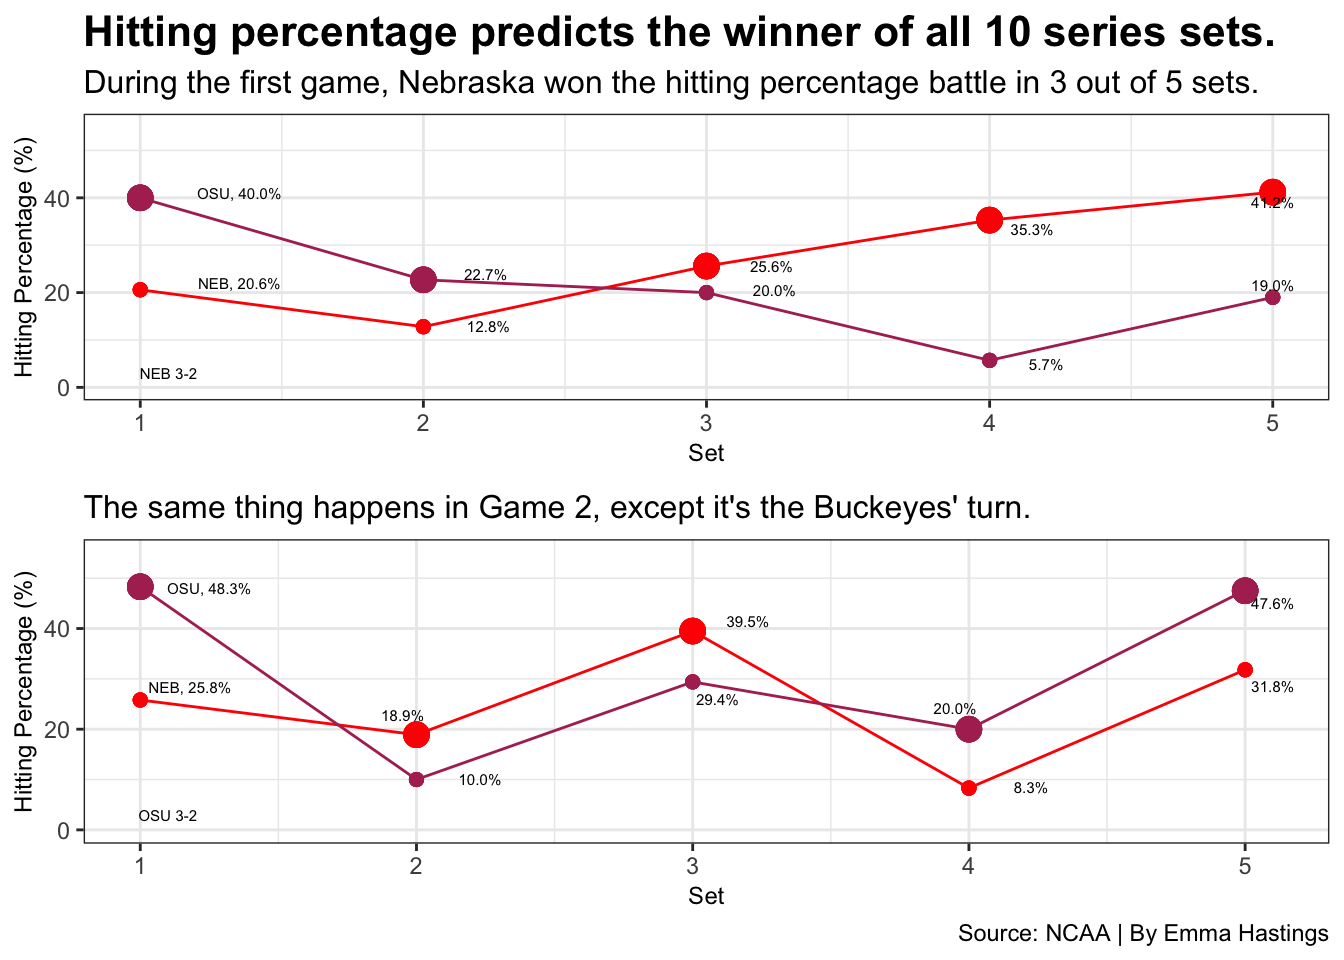
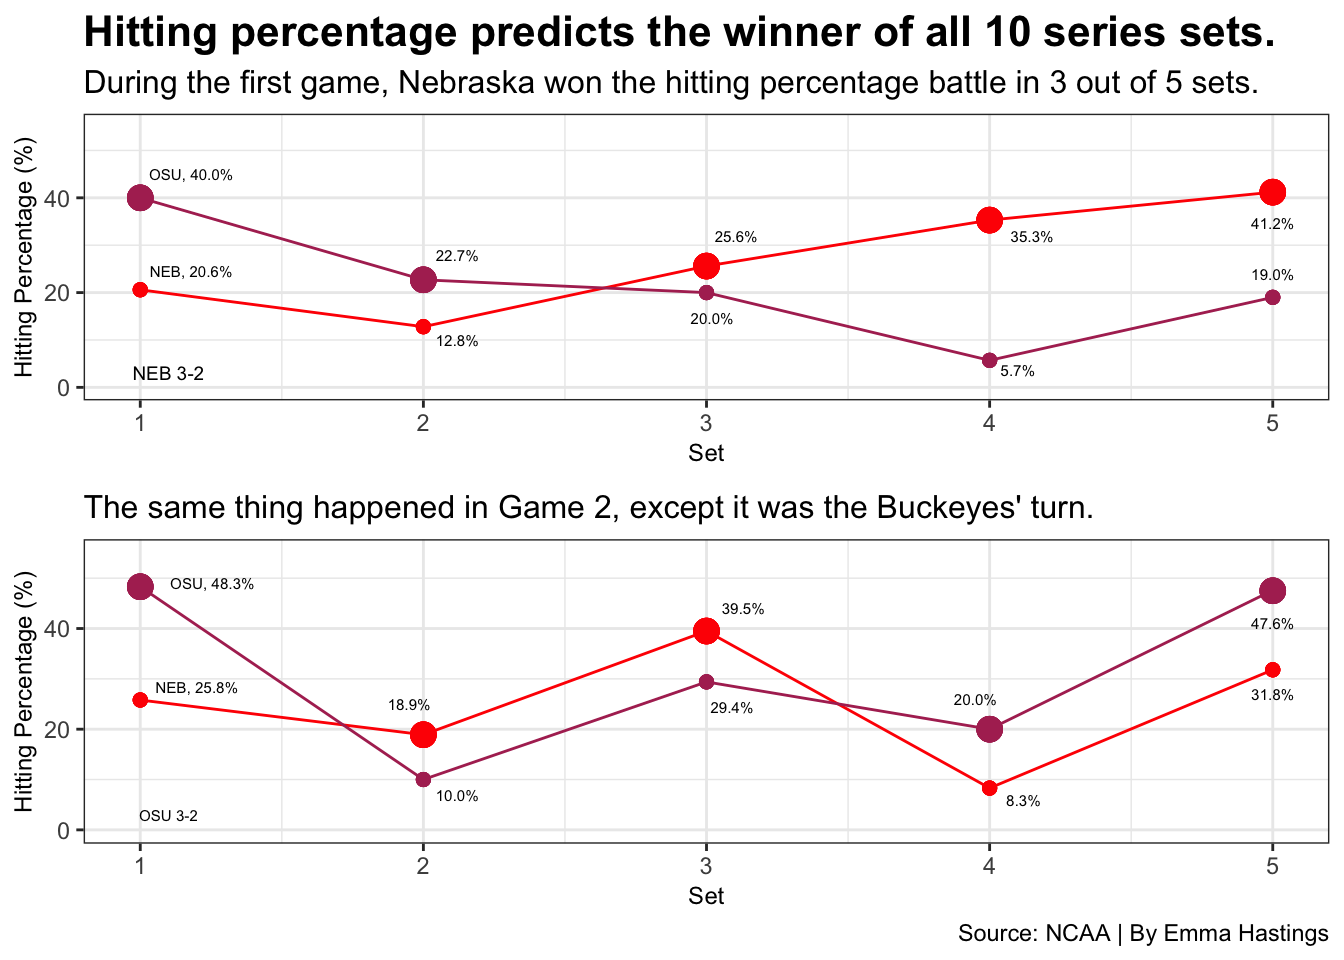
FINAL.

diff --git a/2021/03/27/explaining-the-split-how-nebraska-volleyball-lost-to-a-team-they-beat-24-hours-before/index.html b/2021/03/27/explaining-the-split-how-nebraska-volleyball-lost-to-a-team-they-beat-24-hours-before/index.html
@@ -82,7 +82,7 @@
 <p>In mid-March, Ohio State was the next team to face off against Nebraska with two back-to-back games on the 12th and 13th. The Buckeyes were a surprise team in the Big Ten and were walking into Lincoln undefeated. Every fan of Big Ten volleyball knew that this was going to be an insane series - and they were right.</p>
 <p>After the weekend was over, Nebraska and Ohio State had split two five-set thrillers, with Nebraska taking the first game on the 12th, and Ohio State taking the second game on the 13th.</p>
 <p>So, what did it take for Nebraska to beat the only undefeated team left in the Big Ten? What did Ohio State have to do to rebound after the loss and beat one of the best teams in the nation? That’s what I’ll dive into in this blog post.</p>
-<p>First, I’m going to run the necessary libraries for this project - tidyverse, cowplot, waffle, ggrepel, and ggalt. Then, I’ll import two different data sets - one showing individual statistics for each player for each game, and the other showing team statistics from each set of both matches. I found this data on the NCAA’s website here and here, and then I put the data into my own, importable CSV files.</p>
+<p>First, I’m going to run the necessary libraries for this project - tidyverse, cowplot, waffle, ggrepel, and ggalt. Then, I’ll import two different data sets - one showing individual statistics for each player for each game, and the other showing team statistics from each set of both matches. I found this data on the NCAA’s website <a href="https://www.ncaa.com/game/5783250">here</a> and <a href="https://www.ncaa.com/game/5783251">here</a>, and then I put the data into my own, importable CSV files.</p>
 <pre class="r"><code>library(tidyverse)</code></pre>
 <pre><code>## ── Attaching packages ─────────────────────────────────────── tidyverse 1.3.0 ──</code></pre>
 <pre><code>## ✓ ggplot2 3.3.3     ✓ purrr   0.3.4
@@ -144,17 +144,17 @@ HPgame2 &lt;- teamgame2 %&gt;%
   geom_point(data=HPgame1, aes(x=4, y=5.7), size=2, color=&quot;maroon&quot;) +
   geom_point(data=HPgame1, aes(x=5, y=41.2), size=4, color=&quot;red&quot;) +
   geom_point(data=HPgame1, aes(x=5, y=19), size=2, color=&quot;maroon&quot;) +
-  annotate(&quot;text&quot;, x=1.35, y=22, label=&quot;NEB, 20.6%&quot;, size=2) +
-  annotate(&quot;text&quot;, x=1.35, y=41, label=&quot;OSU, 40.0%&quot;, size=2) +
-  annotate(&quot;text&quot;, x=2.23, y=13, label=&quot;12.8%&quot;, size=2) +
-  annotate(&quot;text&quot;, x=2.22, y=23.9, label=&quot;22.7%&quot;, size=2) +
-  annotate(&quot;text&quot;, x=3.23, y=25.5, label=&quot;25.6%&quot;, size=2) +
-  annotate(&quot;text&quot;, x=3.24, y=20.5, label=&quot;20.0%&quot;, size=2)  +
-  annotate(&quot;text&quot;, x=4.15, y=33.5, label=&quot;35.3%&quot;, size=2) +
-  annotate(&quot;text&quot;, x=4.2, y=5, label=&quot;5.7%&quot;, size=2) +
-  annotate(&quot;text&quot;, x=5, y=39, label=&quot;41.2%&quot;, size=2) +
-  annotate(&quot;text&quot;, x=5, y=21.5, label=&quot;19.0%&quot;, size=2) +
-  annotate(&quot;text&quot;, x=1.1, y=3, label= &quot;NEB 3-2&quot;, size=2) +
+  annotate(&quot;text&quot;, x=1.18, y=24.5, label=&quot;NEB, 20.6%&quot;, size=2) +
+  annotate(&quot;text&quot;, x=1.18, y=45, label=&quot;OSU, 40.0%&quot;, size=2) +
+  annotate(&quot;text&quot;, x=2.12, y=10, label=&quot;12.8%&quot;, size=2) +
+  annotate(&quot;text&quot;, x=2.12, y=28, label=&quot;22.7%&quot;, size=2) +
+  annotate(&quot;text&quot;, x=3.105, y=32, label=&quot;25.6%&quot;, size=2) +
+  annotate(&quot;text&quot;, x=3.02, y=14.7, label=&quot;20.0%&quot;, size=2)  +
+  annotate(&quot;text&quot;, x=4.15, y=32, label=&quot;35.3%&quot;, size=2) +
+  annotate(&quot;text&quot;, x=4.1, y=3.75, label=&quot;5.7%&quot;, size=2) +
+  annotate(&quot;text&quot;, x=5, y=34.75, label=&quot;41.2%&quot;, size=2) +
+  annotate(&quot;text&quot;, x=5, y=24, label=&quot;19.0%&quot;, size=2) +
+  annotate(&quot;text&quot;, x=1.1, y=3, label= &quot;NEB 3-2&quot;, size=2.5) +
   labs(title=&quot;Hitting percentage predicts the winner of all 10 series sets.&quot;, subtitle = &quot;During the first game, Nebraska won the hitting percentage battle in 3 out of 5 sets.&quot;, x = &quot;Set&quot;, y=&quot;Hitting Percentage (%)&quot;) +
   scale_y_continuous(limits = c(0, 55)) +
   theme_bw() +
@@ -173,18 +173,18 @@ HPgame2 &lt;- teamgame2 %&gt;%
   geom_point(data=HPgame2, aes(x=4, y=20), size=4, color=&quot;maroon&quot;) +
   geom_point(data=HPgame2, aes(x=5, y=31.8), size=2, color=&quot;red&quot;) +
   geom_point(data=HPgame2, aes(x=5, y=47.5), size=4, color=&quot;maroon&quot;) +
-  annotate(&quot;text&quot;, x=1.18, y=28.3, label=&quot;NEB, 25.8%&quot;, size=2) +
-  annotate(&quot;text&quot;, x=1.25, y=48, label=&quot;OSU, 48.3%&quot;, size=2) +
-  annotate(&quot;text&quot;, x=1.95, y=22.9, label=&quot;18.9%&quot;, size=2) +
-  annotate(&quot;text&quot;, x=2.23, y=10, label=&quot;10.0%&quot;, size=2) +
-  annotate(&quot;text&quot;, x=3.2, y=41.5, label=&quot;39.5%&quot;, size=2) +
-  annotate(&quot;text&quot;, x=3.09, y=26, label=&quot;29.4%&quot;, size=2)  +
-  annotate(&quot;text&quot;, x=4.225, y=8.5, label=&quot;8.3%&quot;, size=2) +
-  annotate(&quot;text&quot;, x=3.95, y=24.1, label=&quot;20.0%&quot;, size=2) +
-  annotate(&quot;text&quot;, x=5.1, y=28.5, label=&quot;31.8%&quot;, size=2) +
-  annotate(&quot;text&quot;, x=5.1, y=45, label=&quot;47.6%&quot;, size=2) +
+  annotate(&quot;text&quot;, x=1.2, y=28.3, label=&quot;NEB, 25.8%&quot;, size=2) +
+  annotate(&quot;text&quot;, x=1.255, y=49, label=&quot;OSU, 48.3%&quot;, size=2) +
+  annotate(&quot;text&quot;, x=1.95, y=25, label=&quot;18.9%&quot;, size=2) +
+  annotate(&quot;text&quot;, x=2.12, y=7, label=&quot;10.0%&quot;, size=2) +
+  annotate(&quot;text&quot;, x=3.13, y=44, label=&quot;39.5%&quot;, size=2) +
+  annotate(&quot;text&quot;, x=3.09, y=24.3, label=&quot;29.4%&quot;, size=2)  +
+  annotate(&quot;text&quot;, x=4.12, y=6, label=&quot;8.3%&quot;, size=2) +
+  annotate(&quot;text&quot;, x=3.95, y=26, label=&quot;20.0%&quot;, size=2) +
+  annotate(&quot;text&quot;, x=5, y=27, label=&quot;31.8%&quot;, size=2) +
+  annotate(&quot;text&quot;, x=5, y=41, label=&quot;47.6%&quot;, size=2) +
   annotate(&quot;text&quot;, x=1.1, y=3, label= &quot;OSU 3-2&quot;, size=2) +
-  labs(subtitle=&quot;The same thing happens in Game 2, except it&#39;s the Buckeyes&#39; turn.&quot;, x=&quot;Set&quot;, y=&quot;Hitting Percentage (%)&quot;, caption=&quot;Source: NCAA | By Emma Hastings&quot;) +
+  labs(subtitle=&quot;The same thing happened in Game 2, except it was the Buckeyes&#39; turn.&quot;, x=&quot;Set&quot;, y=&quot;Hitting Percentage (%)&quot;, caption=&quot;Source: NCAA | By Emma Hastings&quot;) +
   scale_y_continuous(limits = c(0, 55)) +
   theme_bw() +
   theme(plot.title = element_text(size = 16, face = &quot;bold&quot;), plot.subtitle = element_text(size = 12), axis.title = element_text(size = 9))</code></pre>

diff --git a/tags/index.html b/tags/index.html
@@ -69,42 +69,42 @@
     <article class="archive-item">
       <a href="/tags/volleyball/" class="archive-item-link">volleyball</a>
       <span class="archive-item-date">
-        2021-03-26
+        2021-03-27
       </span>
     </article>
     
     <article class="archive-item">
       <a href="/tags/sports/" class="archive-item-link">sports</a>
       <span class="archive-item-date">
-        2021-03-26
+        2021-03-27
       </span>
     </article>
     
     <article class="archive-item">
       <a href="/tags/r/" class="archive-item-link">R</a>
       <span class="archive-item-date">
-        2021-03-26
+        2021-03-27
       </span>
     </article>
     
     <article class="archive-item">
       <a href="/tags/ncaa/" class="archive-item-link">NCAA</a>
       <span class="archive-item-date">
-        2021-03-26
+        2021-03-27
       </span>
     </article>
     
     <article class="archive-item">
       <a href="/tags/data/" class="archive-item-link">data</a>
       <span class="archive-item-date">
-        2021-03-26
+        2021-03-27
       </span>
     </article>
     
     <article class="archive-item">
       <a href="/tags/analysis/" class="archive-item-link">analysis</a>
       <span class="archive-item-date">
-        2021-03-26
+        2021-03-27
       </span>
     </article>
     

diff --git a/categories/class-projects/index.html b/categories/class-projects/index.html
@@ -67,9 +67,9 @@
     <h2 class="archive-title">2021</h2>
     
     <article class="archive-item">
-      <a href="/2021/03/26/explaining-the-split-how-nebraska-volleyball-lost-to-a-team-they-beat-24-hours-before/" class="archive-item-link">Explaining the Split - How Nebraska Volleyball Lost to a Team They Beat 24 Hours Before</a>
+      <a href="/2021/03/27/explaining-the-split-how-nebraska-volleyball-lost-to-a-team-they-beat-24-hours-before/" class="archive-item-link">Explaining the Split - How Nebraska Volleyball Lost to a Team They Beat 24 Hours Before</a>
       <span class="archive-item-date">
-        2021-03-26
+        2021-03-27
       </span>
     </article>
     

diff --git a/categories/sports-data-analysis/index.html b/categories/sports-data-analysis/index.html
@@ -67,9 +67,9 @@
     <h2 class="archive-title">2021</h2>
     
     <article class="archive-item">
-      <a href="/2021/03/26/explaining-the-split-how-nebraska-volleyball-lost-to-a-team-they-beat-24-hours-before/" class="archive-item-link">Explaining the Split - How Nebraska Volleyball Lost to a Team They Beat 24 Hours Before</a>
+      <a href="/2021/03/27/explaining-the-split-how-nebraska-volleyball-lost-to-a-team-they-beat-24-hours-before/" class="archive-item-link">Explaining the Split - How Nebraska Volleyball Lost to a Team They Beat 24 Hours Before</a>
       <span class="archive-item-date">
-        2021-03-26
+        2021-03-27
       </span>
     </article>
     

diff --git a/index.html b/index.html
@@ -70,9 +70,9 @@
     <h2 class="archive-title">2021</h2>
     
     <article class="archive-item">
-      <a href="/2021/03/26/explaining-the-split-how-nebraska-volleyball-lost-to-a-team-they-beat-24-hours-before/" class="archive-item-link">Explaining the Split - How Nebraska Volleyball Lost to a Team They Beat 24 Hours Before</a>
+      <a href="/2021/03/27/explaining-the-split-how-nebraska-volleyball-lost-to-a-team-they-beat-24-hours-before/" class="archive-item-link">Explaining the Split - How Nebraska Volleyball Lost to a Team They Beat 24 Hours Before</a>
       <span class="archive-item-date">
-        2021-03-26
+        2021-03-27
       </span>
     </article>
     

diff --git a/post/index.html b/post/index.html
@@ -67,9 +67,9 @@
     <h2 class="archive-title">2021</h2>
     
     <article class="archive-item">
-      <a href="/2021/03/26/explaining-the-split-how-nebraska-volleyball-lost-to-a-team-they-beat-24-hours-before/" class="archive-item-link">Explaining the Split - How Nebraska Volleyball Lost to a Team They Beat 24 Hours Before</a>
+      <a href="/2021/03/27/explaining-the-split-how-nebraska-volleyball-lost-to-a-team-they-beat-24-hours-before/" class="archive-item-link">Explaining the Split - How Nebraska Volleyball Lost to a Team They Beat 24 Hours Before</a>
       <span class="archive-item-date">
-        2021-03-26
+        2021-03-27
       </span>
     </article>
     

diff --git a/tags/analysis/index.html b/tags/analysis/index.html
@@ -67,9 +67,9 @@
     <h2 class="archive-title">2021</h2>
     
     <article class="archive-item">
-      <a href="/2021/03/26/explaining-the-split-how-nebraska-volleyball-lost-to-a-team-they-beat-24-hours-before/" class="archive-item-link">Explaining the Split - How Nebraska Volleyball Lost to a Team They Beat 24 Hours Before</a>
+      <a href="/2021/03/27/explaining-the-split-how-nebraska-volleyball-lost-to-a-team-they-beat-24-hours-before/" class="archive-item-link">Explaining the Split - How Nebraska Volleyball Lost to a Team They Beat 24 Hours Before</a>
       <span class="archive-item-date">
-        2021-03-26
+        2021-03-27
       </span>
     </article>
     

diff --git a/tags/data/index.html b/tags/data/index.html
@@ -67,9 +67,9 @@
     <h2 class="archive-title">2021</h2>
     
     <article class="archive-item">
-      <a href="/2021/03/26/explaining-the-split-how-nebraska-volleyball-lost-to-a-team-they-beat-24-hours-before/" class="archive-item-link">Explaining the Split - How Nebraska Volleyball Lost to a Team They Beat 24 Hours Before</a>
+      <a href="/2021/03/27/explaining-the-split-how-nebraska-volleyball-lost-to-a-team-they-beat-24-hours-before/" class="archive-item-link">Explaining the Split - How Nebraska Volleyball Lost to a Team They Beat 24 Hours Before</a>
       <span class="archive-item-date">
-        2021-03-26
+        2021-03-27
       </span>
     </article>
     

diff --git a/tags/ncaa/index.html b/tags/ncaa/index.html
@@ -67,9 +67,9 @@
     <h2 class="archive-title">2021</h2>
     
     <article class="archive-item">
-      <a href="/2021/03/26/explaining-the-split-how-nebraska-volleyball-lost-to-a-team-they-beat-24-hours-before/" class="archive-item-link">Explaining the Split - How Nebraska Volleyball Lost to a Team They Beat 24 Hours Before</a>
+      <a href="/2021/03/27/explaining-the-split-how-nebraska-volleyball-lost-to-a-team-they-beat-24-hours-before/" class="archive-item-link">Explaining the Split - How Nebraska Volleyball Lost to a Team They Beat 24 Hours Before</a>
       <span class="archive-item-date">
-        2021-03-26
+        2021-03-27
       </span>
     </article>
     

diff --git a/tags/r/index.html b/tags/r/index.html
@@ -67,9 +67,9 @@
     <h2 class="archive-title">2021</h2>
     
     <article class="archive-item">
-      <a href="/2021/03/26/explaining-the-split-how-nebraska-volleyball-lost-to-a-team-they-beat-24-hours-before/" class="archive-item-link">Explaining the Split - How Nebraska Volleyball Lost to a Team They Beat 24 Hours Before</a>
+      <a href="/2021/03/27/explaining-the-split-how-nebraska-volleyball-lost-to-a-team-they-beat-24-hours-before/" class="archive-item-link">Explaining the Split - How Nebraska Volleyball Lost to a Team They Beat 24 Hours Before</a>
       <span class="archive-item-date">
-        2021-03-26
+        2021-03-27
       </span>
     </article>
     

diff --git a/tags/sports/index.html b/tags/sports/index.html
@@ -67,9 +67,9 @@
     <h2 class="archive-title">2021</h2>
     
     <article class="archive-item">
-      <a href="/2021/03/26/explaining-the-split-how-nebraska-volleyball-lost-to-a-team-they-beat-24-hours-before/" class="archive-item-link">Explaining the Split - How Nebraska Volleyball Lost to a Team They Beat 24 Hours Before</a>
+      <a href="/2021/03/27/explaining-the-split-how-nebraska-volleyball-lost-to-a-team-they-beat-24-hours-before/" class="archive-item-link">Explaining the Split - How Nebraska Volleyball Lost to a Team They Beat 24 Hours Before</a>
       <span class="archive-item-date">
-        2021-03-26
+        2021-03-27
       </span>
     </article>
     

diff --git a/tags/volleyball/index.html b/tags/volleyball/index.html
@@ -67,9 +67,9 @@
     <h2 class="archive-title">2021</h2>
     
     <article class="archive-item">
-      <a href="/2021/03/26/explaining-the-split-how-nebraska-volleyball-lost-to-a-team-they-beat-24-hours-before/" class="archive-item-link">Explaining the Split - How Nebraska Volleyball Lost to a Team They Beat 24 Hours Before</a>
+      <a href="/2021/03/27/explaining-the-split-how-nebraska-volleyball-lost-to-a-team-they-beat-24-hours-before/" class="archive-item-link">Explaining the Split - How Nebraska Volleyball Lost to a Team They Beat 24 Hours Before</a>
       <span class="archive-item-date">
-        2021-03-26
+        2021-03-27
       </span>
     </article>
     
